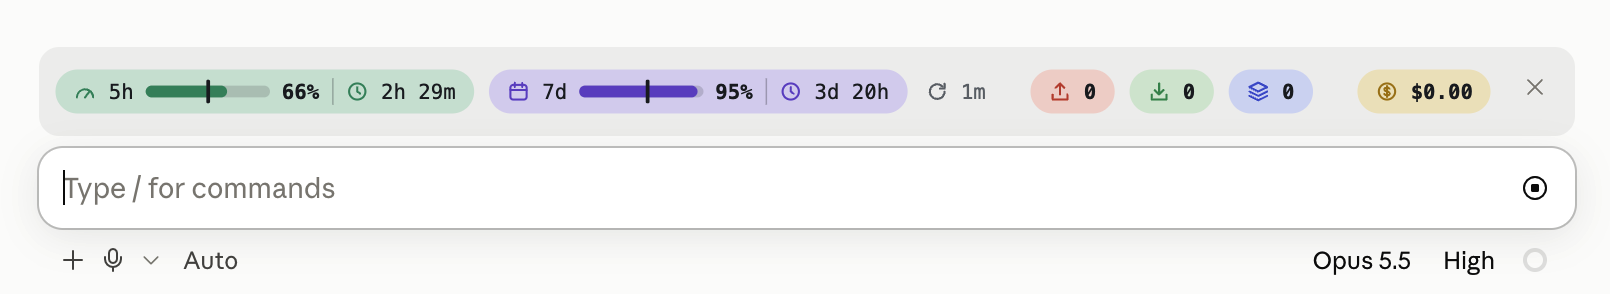
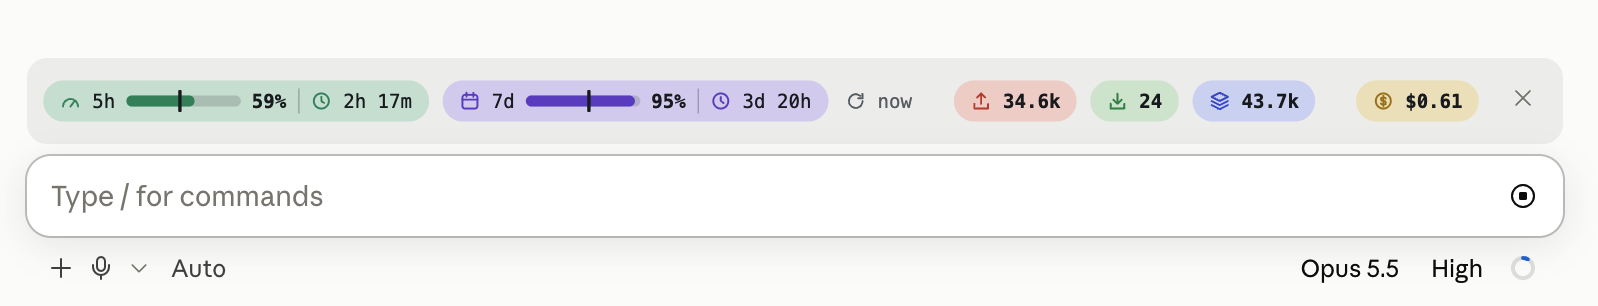
Replace the light-theme screenshot
Documentation only. The new screenshot has non-zero token counts and cost.

diff --git a/CHANGELOG.md b/CHANGELOG.md
@@ -2,6 +2,12 @@
 
 Versions follow [Semantic Versioning](https://semver.org/).
 
+## 0.3.2 - 2026-10-06
+
+Documentation only; the mod's behavior is unchanged.
+
+- Replaced the light-theme screenshot with one taken after a few turns, so the token counts and cost are not zero.
+
 ## 0.3.1 - 2026-10-06
 
 Documentation only; the mod's behavior is unchanged.
